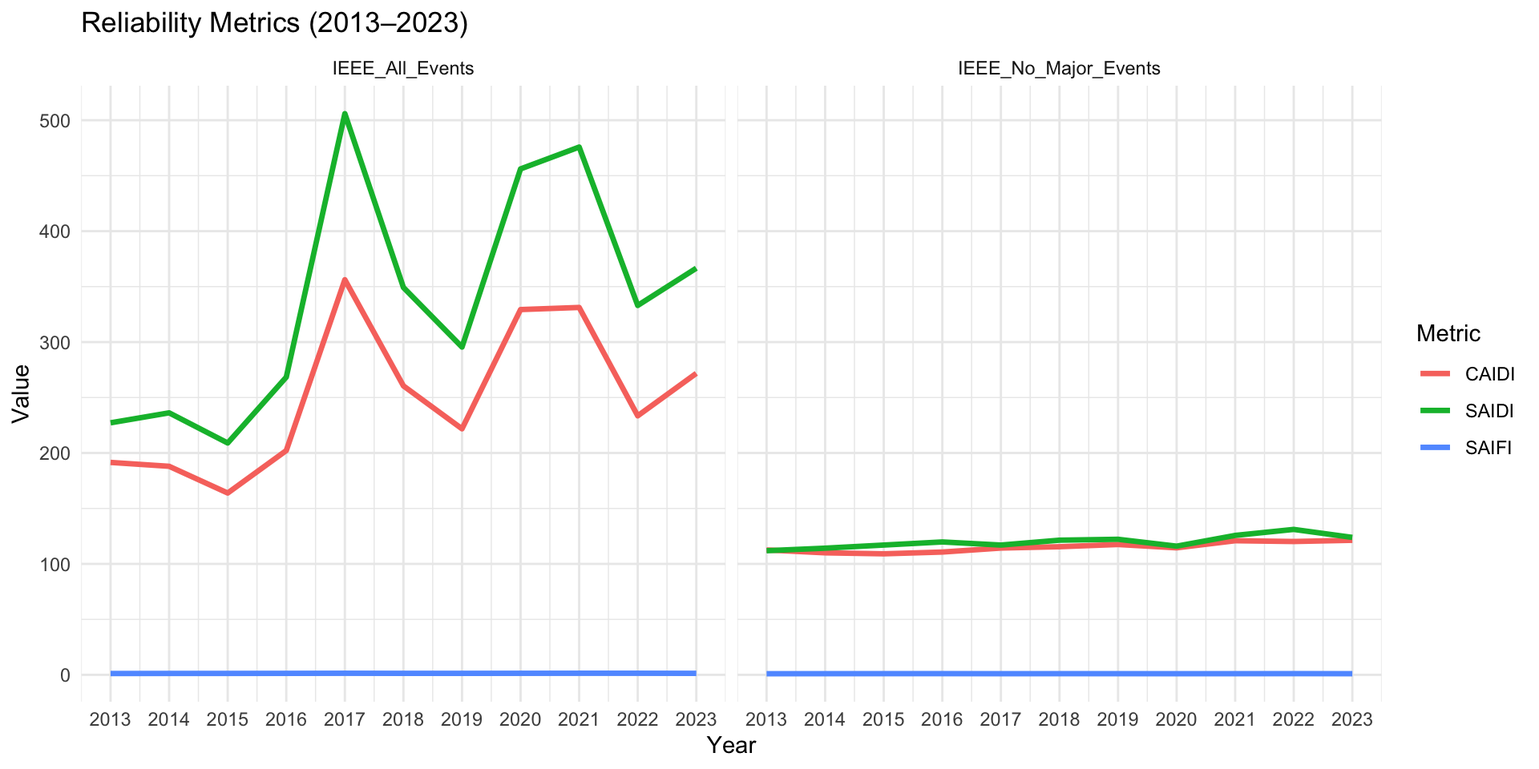
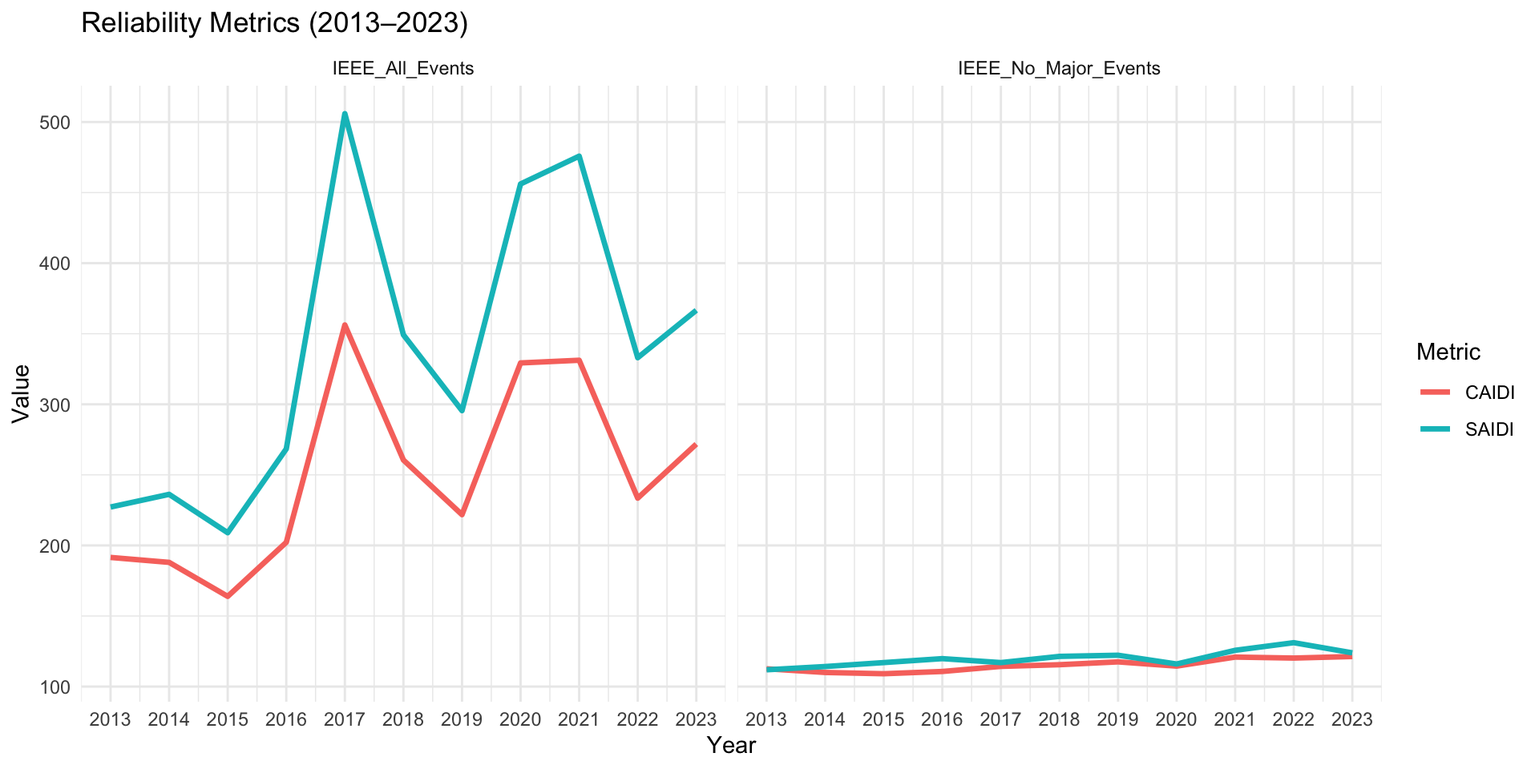
Edits to first 3 plots

diff --git a/docs/results.html b/docs/results.html
@@ -7,7 +7,7 @@
 <meta name="viewport" content="width=device-width, initial-scale=1.0, user-scalable=yes">
 
 
-<title>3&nbsp; Results – ENERGY!!!</title>
+<title>3&nbsp; Results – Renewable Energy and Grid Reliability</title>
 <style>
 code{white-space: pre-wrap;}
 span.smallcaps{font-variant: small-caps;}
@@ -19,6 +19,40 @@ ul.task-list li input[type="checkbox"] {
   width: 0.8em;
   margin: 0 0.8em 0.2em -1em; /* quarto-specific, see https://github.com/quarto-dev/quarto-cli/issues/4556 */ 
   vertical-align: middle;
+}
+/* CSS for syntax highlighting */
+pre > code.sourceCode { white-space: pre; position: relative; }
+pre > code.sourceCode > span { line-height: 1.25; }
+pre > code.sourceCode > span:empty { height: 1.2em; }
+.sourceCode { overflow: visible; }
+code.sourceCode > span { color: inherit; text-decoration: inherit; }
+div.sourceCode { margin: 1em 0; }
+pre.sourceCode { margin: 0; }
+@media screen {
+div.sourceCode { overflow: auto; }
+}
+@media print {
+pre > code.sourceCode { white-space: pre-wrap; }
+pre > code.sourceCode > span { display: inline-block; text-indent: -5em; padding-left: 5em; }
+}
+pre.numberSource code
+  { counter-reset: source-line 0; }
+pre.numberSource code > span
+  { position: relative; left: -4em; counter-increment: source-line; }
+pre.numberSource code > span > a:first-child::before
+  { content: counter(source-line);
+    position: relative; left: -1em; text-align: right; vertical-align: baseline;
+    border: none; display: inline-block;
+    -webkit-touch-callout: none; -webkit-user-select: none;
+    -khtml-user-select: none; -moz-user-select: none;
+    -ms-user-select: none; user-select: none;
+    padding: 0 4px; width: 4em;
+  }
+pre.numberSource { margin-left: 3em;  padding-left: 4px; }
+div.sourceCode
+  {   }
+@media screen {
+pre > code.sourceCode > span > a:first-child::before { text-decoration: underline; }
 }
 </style>
 
@@ -96,7 +130,7 @@ ul.task-list li input[type="checkbox"] {
   <nav id="quarto-sidebar" class="sidebar collapse collapse-horizontal quarto-sidebar-collapse-item sidebar-navigation floating overflow-auto">
     <div class="pt-lg-2 mt-2 text-left sidebar-header">
     <div class="sidebar-title mb-0 py-0">
-      <a href="./">ENERGY!!!</a> 
+      <a href="./">Renewable Energy and Grid Reliability</a> 
         <div class="sidebar-tools-main">
     <a href="https://github.com/mollyverhaaren/energy.git" title="Source Code" class="quarto-navigation-tool px-1" aria-label="Source Code"><i class="bi bi-github"></i></a>
 </div>
@@ -144,8 +178,15 @@ ul.task-list li input[type="checkbox"] {
 </nav>
 <div id="quarto-sidebar-glass" class="quarto-sidebar-collapse-item" data-bs-toggle="collapse" data-bs-target=".quarto-sidebar-collapse-item"></div>
 <!-- margin-sidebar -->
-    <div id="quarto-margin-sidebar" class="sidebar margin-sidebar zindex-bottom">
-        
+    <div id="quarto-margin-sidebar" class="sidebar margin-sidebar">
+        <nav id="TOC" role="doc-toc" class="toc-active">
+    <h2 id="toc-title">Table of contents</h2>
+   
+  <ul>
+  <li><a href="#setting-the-scene-renewable-integration-in-the-u.s.-over-time" id="toc-setting-the-scene-renewable-integration-in-the-u.s.-over-time" class="nav-link active" data-scroll-target="#setting-the-scene-renewable-integration-in-the-u.s.-over-time"><span class="header-section-number">3.1</span> Setting the Scene: Renewable Integration in the U.S. Over Time:</a></li>
+  <li><a href="#grid-reliability" id="toc-grid-reliability" class="nav-link" data-scroll-target="#grid-reliability"><span class="header-section-number">3.2</span> Grid Reliability:</a></li>
+  </ul>
+<div class="toc-actions"><ul><li><a href="https://github.com/mollyverhaaren/energy.git/edit/main/results.qmd" class="toc-action"><i class="bi bi-github"></i>Edit this page</a></li><li><a href="https://github.com/mollyverhaaren/energy.git/issues/new" class="toc-action"><i class="bi empty"></i>Report an issue</a></li></ul></div></nav>
     </div>
 <!-- main -->
 <main class="content" id="quarto-document-content">
@@ -169,8 +210,178 @@ ul.task-list li input[type="checkbox"] {
 </header>
 
 
+<div class="cell">
+<details class="code-fold">
+<summary>Code</summary>
+<div class="sourceCode cell-code" id="cb1"><pre class="sourceCode r code-with-copy"><code class="sourceCode r"><span id="cb1-1"><a href="#cb1-1" aria-hidden="true" tabindex="-1"></a><span class="fu">suppressPackageStartupMessages</span>(<span class="fu">library</span>(ggplot2))</span>
+<span id="cb1-2"><a href="#cb1-2" aria-hidden="true" tabindex="-1"></a><span class="fu">suppressPackageStartupMessages</span>(<span class="fu">library</span>(dplyr))</span>
+<span id="cb1-3"><a href="#cb1-3" aria-hidden="true" tabindex="-1"></a><span class="fu">suppressPackageStartupMessages</span>(<span class="fu">library</span>(tidyr))</span>
+<span id="cb1-4"><a href="#cb1-4" aria-hidden="true" tabindex="-1"></a><span class="fu">suppressPackageStartupMessages</span>(<span class="fu">library</span>(scales))</span></code><button title="Copy to Clipboard" class="code-copy-button"><i class="bi"></i></button></pre></div>
+</details>
+</div>
+<section id="setting-the-scene-renewable-integration-in-the-u.s.-over-time" class="level2" data-number="3.1">
+<h2 data-number="3.1" class="anchored" data-anchor-id="setting-the-scene-renewable-integration-in-the-u.s.-over-time"><span class="header-section-number">3.1</span> Setting the Scene: Renewable Integration in the U.S. Over Time:</h2>
+<p>Understanding the trajectory of U.S. electricity generation over the past three decades provides context for the challenges and opportunities presented by renewable energy integration. The plot below serves as the foundation of our analysis, showing the shift in energy sources from 1990 to 2023. It highlights:</p>
+<ul>
+<li>The decline of coal and petroleum-based generation</li>
+<li>The rise of natural gas</li>
+<li>The rapid growth of intermittent renewables (wind and solar), especially in the past decade</li>
+<li>The consistency of other renewables, which include hydroelectric, geothermal, and biomass</li>
+</ul>
+<p>We focus this analysis on wind and solar electricity generation because they provide clean but intermittent energy (after all, we can’t control when the wind is blowing and the sun is shining!). As the U.S. works to reduce carbon emissions and combat climate change, the grid will be more reliant on these intermittent energy sources, so understanding their impact on grid reliability is crucial.</p>
+<p>Total area adds up to total gen in any given yesr…. capacity vs gen</p>
+<div class="cell">
+<details class="code-fold">
+<summary>Code</summary>
+<div class="sourceCode cell-code" id="cb2"><pre class="sourceCode r code-with-copy"><code class="sourceCode r"><span id="cb2-1"><a href="#cb2-1" aria-hidden="true" tabindex="-1"></a>us_gen_data <span class="ot">&lt;-</span> <span class="fu">read.csv</span>(<span class="st">"US_generation.csv"</span>)</span>
+<span id="cb2-2"><a href="#cb2-2" aria-hidden="true" tabindex="-1"></a></span>
+<span id="cb2-3"><a href="#cb2-3" aria-hidden="true" tabindex="-1"></a><span class="fu">colnames</span>(us_gen_data)[<span class="dv">1</span>] <span class="ot">&lt;-</span> <span class="st">"Year"</span></span>
+<span id="cb2-4"><a href="#cb2-4" aria-hidden="true" tabindex="-1"></a></span>
+<span id="cb2-5"><a href="#cb2-5" aria-hidden="true" tabindex="-1"></a>us_gen_data <span class="ot">&lt;-</span> us_gen_data <span class="sc">|&gt;</span></span>
+<span id="cb2-6"><a href="#cb2-6" aria-hidden="true" tabindex="-1"></a>  <span class="fu">filter</span>(Year <span class="sc">&gt;=</span> <span class="dv">1990</span>)</span>
+<span id="cb2-7"><a href="#cb2-7" aria-hidden="true" tabindex="-1"></a></span>
+<span id="cb2-8"><a href="#cb2-8" aria-hidden="true" tabindex="-1"></a>data1_long <span class="ot">&lt;-</span> us_gen_data <span class="sc">|&gt;</span></span>
+<span id="cb2-9"><a href="#cb2-9" aria-hidden="true" tabindex="-1"></a>  <span class="fu">select</span>(Year, wind, solar, <span class="st">`</span><span class="at">coal</span><span class="st">`</span>, <span class="st">`</span><span class="at">natural.gas</span><span class="st">`</span>, <span class="st">`</span><span class="at">nuclear</span><span class="st">`</span>, <span class="st">`</span><span class="at">other.renewables</span><span class="st">`</span>, <span class="st">`</span><span class="at">petroleum.and.other</span><span class="st">`</span>) <span class="sc">|&gt;</span></span>
+<span id="cb2-10"><a href="#cb2-10" aria-hidden="true" tabindex="-1"></a>  <span class="fu">pivot_longer</span>(<span class="at">cols =</span> <span class="sc">-</span>Year, <span class="at">names_to =</span> <span class="st">"Energy_Source"</span>, <span class="at">values_to =</span> <span class="st">"Generation"</span>)</span>
+<span id="cb2-11"><a href="#cb2-11" aria-hidden="true" tabindex="-1"></a></span>
+<span id="cb2-12"><a href="#cb2-12" aria-hidden="true" tabindex="-1"></a><span class="co"># Set factor levels (wind and solar at the top)</span></span>
+<span id="cb2-13"><a href="#cb2-13" aria-hidden="true" tabindex="-1"></a>data1_long<span class="sc">$</span>Energy_Source <span class="ot">&lt;-</span> <span class="fu">factor</span>(data1_long<span class="sc">$</span>Energy_Source, </span>
+<span id="cb2-14"><a href="#cb2-14" aria-hidden="true" tabindex="-1"></a>                                  <span class="at">levels =</span> <span class="fu">c</span>(<span class="st">"solar"</span>,<span class="st">"wind"</span>,<span class="st">"other.renewables"</span>, <span class="st">"nuclear"</span>, <span class="st">"natural.gas"</span>,</span>
+<span id="cb2-15"><a href="#cb2-15" aria-hidden="true" tabindex="-1"></a>                                             <span class="st">"petroleum.and.other"</span>, <span class="st">"coal"</span>))</span>
+<span id="cb2-16"><a href="#cb2-16" aria-hidden="true" tabindex="-1"></a><span class="co"># Area Chart</span></span>
+<span id="cb2-17"><a href="#cb2-17" aria-hidden="true" tabindex="-1"></a><span class="fu">ggplot</span>(data1_long, <span class="fu">aes</span>(<span class="at">x =</span> Year, <span class="at">y =</span> Generation, <span class="at">fill =</span> Energy_Source)) <span class="sc">+</span></span>
+<span id="cb2-18"><a href="#cb2-18" aria-hidden="true" tabindex="-1"></a>  <span class="fu">geom_area</span>(<span class="at">alpha =</span> <span class="fl">0.8</span>, <span class="at">position =</span> <span class="st">"stack"</span>) <span class="sc">+</span></span>
+<span id="cb2-19"><a href="#cb2-19" aria-hidden="true" tabindex="-1"></a>  <span class="fu">scale_fill_manual</span>(<span class="at">values =</span> <span class="fu">c</span>(<span class="st">"coal"</span> <span class="ot">=</span> <span class="st">"gray10"</span>, </span>
+<span id="cb2-20"><a href="#cb2-20" aria-hidden="true" tabindex="-1"></a>                               <span class="st">"natural.gas"</span> <span class="ot">=</span> <span class="st">"gray50"</span>, </span>
+<span id="cb2-21"><a href="#cb2-21" aria-hidden="true" tabindex="-1"></a>                               <span class="st">"nuclear"</span> <span class="ot">=</span> <span class="st">"gray80"</span>, </span>
+<span id="cb2-22"><a href="#cb2-22" aria-hidden="true" tabindex="-1"></a>                               <span class="st">"other.renewables"</span> <span class="ot">=</span> <span class="st">"cornflowerblue"</span>, </span>
+<span id="cb2-23"><a href="#cb2-23" aria-hidden="true" tabindex="-1"></a>                               <span class="st">"petroleum.and.other"</span> <span class="ot">=</span> <span class="st">"gray30"</span>,</span>
+<span id="cb2-24"><a href="#cb2-24" aria-hidden="true" tabindex="-1"></a>                               <span class="st">"wind"</span> <span class="ot">=</span> <span class="st">"green4"</span>,</span>
+<span id="cb2-25"><a href="#cb2-25" aria-hidden="true" tabindex="-1"></a>                               <span class="st">"solar"</span> <span class="ot">=</span> <span class="st">"yellow"</span>)) <span class="sc">+</span></span>
+<span id="cb2-26"><a href="#cb2-26" aria-hidden="true" tabindex="-1"></a>  <span class="fu">labs</span>(<span class="at">title =</span> <span class="st">"US Electricity Generation (MW) by Source 1990-2023"</span>,</span>
+<span id="cb2-27"><a href="#cb2-27" aria-hidden="true" tabindex="-1"></a>       <span class="at">x =</span> <span class="st">"Year"</span>,</span>
+<span id="cb2-28"><a href="#cb2-28" aria-hidden="true" tabindex="-1"></a>       <span class="at">y =</span> <span class="st">"Electricity Generation (MW)"</span>,</span>
+<span id="cb2-29"><a href="#cb2-29" aria-hidden="true" tabindex="-1"></a>       <span class="at">fill =</span> <span class="st">"Energy Source"</span>) <span class="sc">+</span></span>
+<span id="cb2-30"><a href="#cb2-30" aria-hidden="true" tabindex="-1"></a>  <span class="fu">theme_minimal</span>()</span></code><button title="Copy to Clipboard" class="code-copy-button"><i class="bi"></i></button></pre></div>
+</details>
+<div class="cell-output-display">
+<div>
+<figure class="figure">
+<p><img src="results_files/figure-html/unnamed-chunk-2-1.png" class="img-fluid figure-img" width="960"></p>
+</figure>
+</div>
+</div>
+</div>
+<p>The plot above may make it seem like wind and solar are not responsible for a large portion of the energy generation in the U.S., but if we plot their share of the country’s total generation mix from 1990 to 2023, we see the<br>
+Further, the EIA forecasts this share to keep growing at a very rapid pace through the mid-2030s, and reaching nearly half of the country’s electricity generation by 2050.</p>
+<div class="cell">
+<details class="code-fold">
+<summary>Code</summary>
+<div class="sourceCode cell-code" id="cb3"><pre class="sourceCode r code-with-copy"><code class="sourceCode r"><span id="cb3-1"><a href="#cb3-1" aria-hidden="true" tabindex="-1"></a><span class="co"># Add a new column to calculate the fraction of wind + solar generation</span></span>
+<span id="cb3-2"><a href="#cb3-2" aria-hidden="true" tabindex="-1"></a>data2 <span class="ot">&lt;-</span> us_gen_data <span class="sc">|&gt;</span></span>
+<span id="cb3-3"><a href="#cb3-3" aria-hidden="true" tabindex="-1"></a>  <span class="fu">mutate</span>(</span>
+<span id="cb3-4"><a href="#cb3-4" aria-hidden="true" tabindex="-1"></a>    <span class="at">Total_Generation =</span> wind <span class="sc">+</span> solar <span class="sc">+</span> coal <span class="sc">+</span> natural.gas <span class="sc">+</span> nuclear <span class="sc">+</span> other.renewables <span class="sc">+</span> petroleum.and.other,</span>
+<span id="cb3-5"><a href="#cb3-5" aria-hidden="true" tabindex="-1"></a>    <span class="at">Wind_Solar_Fraction =</span> (wind <span class="sc">+</span> solar) <span class="sc">/</span> Total_Generation</span>
+<span id="cb3-6"><a href="#cb3-6" aria-hidden="true" tabindex="-1"></a>  )</span>
+<span id="cb3-7"><a href="#cb3-7" aria-hidden="true" tabindex="-1"></a></span>
+<span id="cb3-8"><a href="#cb3-8" aria-hidden="true" tabindex="-1"></a><span class="co"># Find the last data point</span></span>
+<span id="cb3-9"><a href="#cb3-9" aria-hidden="true" tabindex="-1"></a>last_point <span class="ot">&lt;-</span> data2 <span class="sc">|&gt;</span> <span class="fu">filter</span>(Year <span class="sc">==</span> <span class="fu">max</span>(Year))</span>
+<span id="cb3-10"><a href="#cb3-10" aria-hidden="true" tabindex="-1"></a></span>
+<span id="cb3-11"><a href="#cb3-11" aria-hidden="true" tabindex="-1"></a><span class="co"># Load and prepare the forecast data in R</span></span>
+<span id="cb3-12"><a href="#cb3-12" aria-hidden="true" tabindex="-1"></a>forecast <span class="ot">&lt;-</span> <span class="fu">read.csv</span>(<span class="st">"Renewable_Energy_Forecast.csv"</span>) <span class="sc">|&gt;</span></span>
+<span id="cb3-13"><a href="#cb3-13" aria-hidden="true" tabindex="-1"></a>  <span class="fu">select</span>(Year, Solar_Wind_Fraction) <span class="sc">|&gt;</span></span>
+<span id="cb3-14"><a href="#cb3-14" aria-hidden="true" tabindex="-1"></a>  <span class="fu">rename</span>(<span class="at">Solar_Wind_Fraction =</span> Solar_Wind_Fraction)</span>
+<span id="cb3-15"><a href="#cb3-15" aria-hidden="true" tabindex="-1"></a></span>
+<span id="cb3-16"><a href="#cb3-16" aria-hidden="true" tabindex="-1"></a><span class="co"># Combine the historical and forecast data for plotting</span></span>
+<span id="cb3-17"><a href="#cb3-17" aria-hidden="true" tabindex="-1"></a>combined_data <span class="ot">&lt;-</span> <span class="fu">bind_rows</span>(</span>
+<span id="cb3-18"><a href="#cb3-18" aria-hidden="true" tabindex="-1"></a>  data2 <span class="sc">|&gt;</span> <span class="fu">select</span>(Year, Wind_Solar_Fraction) <span class="sc">|&gt;</span> <span class="fu">rename</span>(<span class="at">Fraction =</span> Wind_Solar_Fraction),</span>
+<span id="cb3-19"><a href="#cb3-19" aria-hidden="true" tabindex="-1"></a>  forecast <span class="sc">|&gt;</span> <span class="fu">rename</span>(<span class="at">Fraction =</span> Solar_Wind_Fraction)</span>
+<span id="cb3-20"><a href="#cb3-20" aria-hidden="true" tabindex="-1"></a>)</span>
+<span id="cb3-21"><a href="#cb3-21" aria-hidden="true" tabindex="-1"></a></span>
+<span id="cb3-22"><a href="#cb3-22" aria-hidden="true" tabindex="-1"></a><span class="co"># Find the last data point</span></span>
+<span id="cb3-23"><a href="#cb3-23" aria-hidden="true" tabindex="-1"></a>last_point2 <span class="ot">&lt;-</span> forecast <span class="sc">|&gt;</span> <span class="fu">filter</span>(Year <span class="sc">==</span> <span class="fu">max</span>(Year))</span>
+<span id="cb3-24"><a href="#cb3-24" aria-hidden="true" tabindex="-1"></a></span>
+<span id="cb3-25"><a href="#cb3-25" aria-hidden="true" tabindex="-1"></a><span class="co"># Plot with the forecast</span></span>
+<span id="cb3-26"><a href="#cb3-26" aria-hidden="true" tabindex="-1"></a><span class="fu">ggplot</span>(data2, <span class="fu">aes</span>(<span class="at">x =</span> Year, <span class="at">y =</span> Wind_Solar_Fraction)) <span class="sc">+</span></span>
+<span id="cb3-27"><a href="#cb3-27" aria-hidden="true" tabindex="-1"></a>  <span class="fu">geom_line</span>(<span class="at">color =</span> <span class="st">"darkolivegreen4"</span>, <span class="at">linewidth =</span> <span class="fl">1.2</span>) <span class="sc">+</span></span>
+<span id="cb3-28"><a href="#cb3-28" aria-hidden="true" tabindex="-1"></a>  <span class="fu">geom_line</span>(<span class="at">data =</span> forecast, <span class="fu">aes</span>(<span class="at">x =</span> Year, <span class="at">y =</span> Solar_Wind_Fraction),</span>
+<span id="cb3-29"><a href="#cb3-29" aria-hidden="true" tabindex="-1"></a>            <span class="at">color =</span> <span class="st">"darkolivegreen4"</span>, <span class="at">linetype =</span> <span class="st">"dashed"</span>, <span class="at">linewidth =</span> <span class="fl">1.2</span>) <span class="sc">+</span></span>
+<span id="cb3-30"><a href="#cb3-30" aria-hidden="true" tabindex="-1"></a>  <span class="fu">geom_point</span>(<span class="at">data =</span> last_point, <span class="fu">aes</span>(<span class="at">x =</span> Year, <span class="at">y =</span> Wind_Solar_Fraction), </span>
+<span id="cb3-31"><a href="#cb3-31" aria-hidden="true" tabindex="-1"></a>             <span class="at">size =</span> <span class="fl">2.5</span>, <span class="at">color =</span> <span class="st">"darkolivegreen4"</span>) <span class="sc">+</span></span>
+<span id="cb3-32"><a href="#cb3-32" aria-hidden="true" tabindex="-1"></a>  <span class="fu">geom_text</span>(<span class="at">data =</span> last_point, <span class="fu">aes</span>(<span class="at">label =</span> scales<span class="sc">::</span><span class="fu">percent</span>(Wind_Solar_Fraction, <span class="at">accuracy =</span> <span class="fl">0.1</span>)),</span>
+<span id="cb3-33"><a href="#cb3-33" aria-hidden="true" tabindex="-1"></a>            <span class="at">vjust =</span> <span class="sc">-</span><span class="fl">0.5</span>, <span class="at">hjust =</span> <span class="dv">1</span>, <span class="at">color =</span> <span class="st">"darkolivegreen4"</span>) <span class="sc">+</span></span>
+<span id="cb3-34"><a href="#cb3-34" aria-hidden="true" tabindex="-1"></a>  <span class="fu">geom_text</span>(<span class="at">data =</span> forecast <span class="sc">|&gt;</span> <span class="fu">filter</span>(Year <span class="sc">==</span> <span class="dv">2050</span>),</span>
+<span id="cb3-35"><a href="#cb3-35" aria-hidden="true" tabindex="-1"></a>            <span class="fu">aes</span>(<span class="at">x =</span> Year, <span class="at">y =</span> Solar_Wind_Fraction,</span>
+<span id="cb3-36"><a href="#cb3-36" aria-hidden="true" tabindex="-1"></a>                <span class="at">label =</span> scales<span class="sc">::</span><span class="fu">percent</span>(Solar_Wind_Fraction, <span class="at">accuracy =</span> <span class="fl">0.1</span>)),</span>
+<span id="cb3-37"><a href="#cb3-37" aria-hidden="true" tabindex="-1"></a>            <span class="at">vjust =</span> <span class="sc">-</span><span class="fl">0.5</span>, <span class="at">hjust =</span> <span class="sc">-</span><span class="fl">0.1</span>, <span class="at">color =</span> <span class="st">"darkolivegreen4"</span>) <span class="sc">+</span> </span>
+<span id="cb3-38"><a href="#cb3-38" aria-hidden="true" tabindex="-1"></a> <span class="fu">geom_point</span>(<span class="at">data =</span> last_point2, <span class="fu">aes</span>(<span class="at">x =</span> Year, <span class="at">y =</span> Solar_Wind_Fraction), </span>
+<span id="cb3-39"><a href="#cb3-39" aria-hidden="true" tabindex="-1"></a>             <span class="at">size =</span> <span class="fl">2.5</span>, <span class="at">color =</span> <span class="st">"darkolivegreen4"</span>) <span class="sc">+</span></span>
+<span id="cb3-40"><a href="#cb3-40" aria-hidden="true" tabindex="-1"></a>  <span class="fu">labs</span>(<span class="at">title =</span> <span class="st">"Wind &amp; Solar as a Fraction of Total Electricity Generation (Historical 1990 - 2023 and Forecast 2024-2050)"</span>,</span>
+<span id="cb3-41"><a href="#cb3-41" aria-hidden="true" tabindex="-1"></a>       <span class="at">x =</span> <span class="st">"Year"</span>,</span>
+<span id="cb3-42"><a href="#cb3-42" aria-hidden="true" tabindex="-1"></a>       <span class="at">y =</span> <span class="st">"Fraction of Total Generation"</span>) <span class="sc">+</span></span>
+<span id="cb3-43"><a href="#cb3-43" aria-hidden="true" tabindex="-1"></a>  <span class="fu">theme_minimal</span>() <span class="sc">+</span></span>
+<span id="cb3-44"><a href="#cb3-44" aria-hidden="true" tabindex="-1"></a>  <span class="fu">scale_y_continuous</span>(<span class="at">labels =</span> scales<span class="sc">::</span><span class="fu">percent_format</span>())<span class="sc">+</span></span>
+<span id="cb3-45"><a href="#cb3-45" aria-hidden="true" tabindex="-1"></a>  <span class="fu">scale_x_continuous</span>(<span class="at">breaks =</span> <span class="fu">seq</span>(<span class="dv">1990</span>, <span class="dv">2050</span>, <span class="at">by =</span> <span class="dv">5</span>)) </span></code><button title="Copy to Clipboard" class="code-copy-button"><i class="bi"></i></button></pre></div>
+</details>
+<div class="cell-output-display">
+<div>
+<figure class="figure">
+<p><img src="results_files/figure-html/unnamed-chunk-3-1.png" class="img-fluid figure-img" width="960"></p>
+</figure>
+</div>
+</div>
+</div>
+</section>
+<section id="grid-reliability" class="level2" data-number="3.2">
+<h2 data-number="3.2" class="anchored" data-anchor-id="grid-reliability"><span class="header-section-number">3.2</span> Grid Reliability:</h2>
+<p>Talk about why grid reliability is important, explain reliability metrics</p>
+<ul>
+<li>CAIDI:(is actually just saidi * saifi) Customer Average Interruption Duration Index. It is average number of minutes it takes to restore non-momentary electric interruptions.</li>
+<li>SAIDI:System Average Interruption Duration Index. It is the minutes of non-momentary electric interruptions, per year, the average customer experienced.</li>
+<li>SAIFI:System Average Interruption Frequency Index. It is the number of non-momentary electric interruptions, per year, the average customer experienced.</li>
+</ul>
+<p>Conclusion from this is that reliability is probs much more related to lack of extreme weather events than renewable penetration… could be interesting to track down states with major weather events vs those without and see if there is correlation in what we’re seeing here (good conclusion for the entire project: extreme weather event contributes to lack of reliability much more than renewable integration, makes an even stronger case for the energy transition which can hopefully mitigate or slow down climate change that brings extreme weather) (Can look at winter storm Uri in texas Feb 2021?, California 2022 heatwaves?)</p>
+<p>Probably should get rid of saifi? or include as bar on secondary axis but we;ve been told no secondary axes</p>
+<div class="cell">
+<details class="code-fold">
+<summary>Code</summary>
+<div class="sourceCode cell-code" id="cb4"><pre class="sourceCode r code-with-copy"><code class="sourceCode r"><span id="cb4-1"><a href="#cb4-1" aria-hidden="true" tabindex="-1"></a>t1_reliability <span class="ot">&lt;-</span> <span class="fu">read.csv</span>(<span class="st">"T1_Reliability.csv"</span>)</span>
+<span id="cb4-2"><a href="#cb4-2" aria-hidden="true" tabindex="-1"></a></span>
+<span id="cb4-3"><a href="#cb4-3" aria-hidden="true" tabindex="-1"></a>t1_reliability <span class="ot">&lt;-</span> t1_reliability <span class="sc">|&gt;</span></span>
+<span id="cb4-4"><a href="#cb4-4" aria-hidden="true" tabindex="-1"></a>   <span class="fu">filter</span>(<span class="st">`</span><span class="at">Event_Category</span><span class="st">`</span> <span class="sc">%in%</span> <span class="fu">c</span>(<span class="st">"IEEE_All_Events"</span>, <span class="st">"IEEE_No_Major_Events"</span>))</span>
+<span id="cb4-5"><a href="#cb4-5" aria-hidden="true" tabindex="-1"></a></span>
+<span id="cb4-6"><a href="#cb4-6" aria-hidden="true" tabindex="-1"></a>t1_reliability<span class="sc">$</span>Year <span class="ot">&lt;-</span> <span class="fu">as.integer</span>(t1_reliability<span class="sc">$</span>Year)</span>
+<span id="cb4-7"><a href="#cb4-7" aria-hidden="true" tabindex="-1"></a></span>
+<span id="cb4-8"><a href="#cb4-8" aria-hidden="true" tabindex="-1"></a><span class="co"># Reshape the data to a long format for plotting</span></span>
+<span id="cb4-9"><a href="#cb4-9" aria-hidden="true" tabindex="-1"></a><span class="co">#data3_long &lt;- t1_reliability  |&gt;</span></span>
+<span id="cb4-10"><a href="#cb4-10" aria-hidden="true" tabindex="-1"></a><span class="co">#  pivot_longer(cols = c(SAIDI, SAIFI, CAIDI), names_to = "Metric", values_to = "Value")</span></span>
+<span id="cb4-11"><a href="#cb4-11" aria-hidden="true" tabindex="-1"></a></span>
+<span id="cb4-12"><a href="#cb4-12" aria-hidden="true" tabindex="-1"></a>data3_long <span class="ot">&lt;-</span> t1_reliability  <span class="sc">|&gt;</span></span>
+<span id="cb4-13"><a href="#cb4-13" aria-hidden="true" tabindex="-1"></a>  <span class="fu">pivot_longer</span>(<span class="at">cols =</span> <span class="fu">c</span>(SAIDI, CAIDI), <span class="at">names_to =</span> <span class="st">"Metric"</span>, <span class="at">values_to =</span> <span class="st">"Value"</span>)</span>
+<span id="cb4-14"><a href="#cb4-14" aria-hidden="true" tabindex="-1"></a></span>
+<span id="cb4-15"><a href="#cb4-15" aria-hidden="true" tabindex="-1"></a><span class="co"># Plot the line graph faceted by Event Category</span></span>
+<span id="cb4-16"><a href="#cb4-16" aria-hidden="true" tabindex="-1"></a><span class="fu">ggplot</span>(data3_long, <span class="fu">aes</span>(<span class="at">x =</span> Year, <span class="at">y =</span> Value, <span class="at">color =</span> Metric)) <span class="sc">+</span></span>
+<span id="cb4-17"><a href="#cb4-17" aria-hidden="true" tabindex="-1"></a>  <span class="fu">geom_line</span>(<span class="at">linewidth =</span> <span class="fl">1.2</span>) <span class="sc">+</span></span>
+<span id="cb4-18"><a href="#cb4-18" aria-hidden="true" tabindex="-1"></a>  <span class="fu">scale_x_continuous</span>(<span class="at">breaks =</span> <span class="fu">seq</span>(<span class="dv">2013</span>, <span class="dv">2023</span>, <span class="dv">1</span>)) <span class="sc">+</span></span>
+<span id="cb4-19"><a href="#cb4-19" aria-hidden="true" tabindex="-1"></a>  <span class="co">#scale_y_continuous(expand = c(0, 0)) +</span></span>
+<span id="cb4-20"><a href="#cb4-20" aria-hidden="true" tabindex="-1"></a>  <span class="fu">labs</span>(<span class="at">title =</span> <span class="st">"Reliability Metrics (2013–2023)"</span>,</span>
+<span id="cb4-21"><a href="#cb4-21" aria-hidden="true" tabindex="-1"></a>       <span class="at">x =</span> <span class="st">"Year"</span>,</span>
+<span id="cb4-22"><a href="#cb4-22" aria-hidden="true" tabindex="-1"></a>       <span class="at">y =</span> <span class="st">"Value"</span>,</span>
+<span id="cb4-23"><a href="#cb4-23" aria-hidden="true" tabindex="-1"></a>       <span class="at">color =</span> <span class="st">"Metric"</span>) <span class="sc">+</span></span>
+<span id="cb4-24"><a href="#cb4-24" aria-hidden="true" tabindex="-1"></a>  <span class="fu">facet_wrap</span>(<span class="sc">~</span> <span class="st">`</span><span class="at">Event_Category</span><span class="st">`</span>) <span class="sc">+</span></span>
+<span id="cb4-25"><a href="#cb4-25" aria-hidden="true" tabindex="-1"></a>  <span class="fu">theme_minimal</span>()</span></code><button title="Copy to Clipboard" class="code-copy-button"><i class="bi"></i></button></pre></div>
+</details>
+<div class="cell-output-display">
+<div>
+<figure class="figure">
+<p><img src="results_files/figure-html/unnamed-chunk-4-1.png" class="img-fluid figure-img" width="960"></p>
+</figure>
+</div>
+</div>
+</div>
 
 
+</section>
 
 </main> <!-- /main -->
 <script id="quarto-html-after-body" type="application/javascript">
@@ -613,7 +824,7 @@ window.document.addEventListener("DOMContentLoaded", function (event) {
     </div>   
     <div class="nav-footer-center">
       &nbsp;
-    <div class="toc-actions"><ul><li><a href="https://github.com/mollyverhaaren/energy.git/edit/main/results.qmd" class="toc-action"><i class="bi bi-github"></i>Edit this page</a></li><li><a href="https://github.com/mollyverhaaren/energy.git/issues/new" class="toc-action"><i class="bi empty"></i>Report an issue</a></li></ul></div></div>
+    <div class="toc-actions d-sm-block d-md-none"><ul><li><a href="https://github.com/mollyverhaaren/energy.git/edit/main/results.qmd" class="toc-action"><i class="bi bi-github"></i>Edit this page</a></li><li><a href="https://github.com/mollyverhaaren/energy.git/issues/new" class="toc-action"><i class="bi empty"></i>Report an issue</a></li></ul></div></div>
     <div class="nav-footer-right">
 <p>This book was built with <a href="https://quarto.org/">Quarto</a>.</p>
 </div>

diff --git a/docs/index.html b/docs/index.html
@@ -8,9 +8,9 @@
 
 <meta name="author" content="Margot Genereux (mg4778)">
 <meta name="author" content="Molly Verhaaren (mcv2150)">
-<meta name="dcterms.date" content="2024-11-20">
+<meta name="dcterms.date" content="2024-12-08">
 
-<title>ENERGY!!!</title>
+<title>Renewable Energy and Grid Reliability</title>
 <style>
 code{white-space: pre-wrap;}
 span.smallcaps{font-variant: small-caps;}
@@ -98,7 +98,7 @@ ul.task-list li input[type="checkbox"] {
   <nav id="quarto-sidebar" class="sidebar collapse collapse-horizontal quarto-sidebar-collapse-item sidebar-navigation floating overflow-auto">
     <div class="pt-lg-2 mt-2 text-left sidebar-header">
     <div class="sidebar-title mb-0 py-0">
-      <a href="./">ENERGY!!!</a> 
+      <a href="./">Renewable Energy and Grid Reliability</a> 
         <div class="sidebar-tools-main">
     <a href="https://github.com/mollyverhaaren/energy.git" title="Source Code" class="quarto-navigation-tool px-1" aria-label="Source Code"><i class="bi bi-github"></i></a>
 </div>
@@ -160,7 +160,7 @@ ul.task-list li input[type="checkbox"] {
 
 <header id="title-block-header" class="quarto-title-block default">
 <div class="quarto-title">
-<h1 class="title">ENERGY!!!</h1>
+<h1 class="title">Renewable Energy and Grid Reliability</h1>
 </div>
 
 
@@ -178,7 +178,7 @@ ul.task-list li input[type="checkbox"] {
     <div>
     <div class="quarto-title-meta-heading">Published</div>
     <div class="quarto-title-meta-contents">
-      <p class="date">November 20, 2024</p>
+      <p class="date">December 8, 2024</p>
     </div>
   </div>
   

diff --git a/docs/data.html b/docs/data.html
@@ -7,7 +7,7 @@
 <meta name="viewport" content="width=device-width, initial-scale=1.0, user-scalable=yes">
 
 
-<title>2&nbsp; Data – ENERGY!!!</title>
+<title>2&nbsp; Data – Renewable Energy and Grid Reliability</title>
 <style>
 code{white-space: pre-wrap;}
 span.smallcaps{font-variant: small-caps;}
@@ -130,7 +130,7 @@ pre > code.sourceCode > span > a:first-child::before { text-decoration: underlin
   <nav id="quarto-sidebar" class="sidebar collapse collapse-horizontal quarto-sidebar-collapse-item sidebar-navigation floating overflow-auto">
     <div class="pt-lg-2 mt-2 text-left sidebar-header">
     <div class="sidebar-title mb-0 py-0">
-      <a href="./">ENERGY!!!</a> 
+      <a href="./">Renewable Energy and Grid Reliability</a> 
         <div class="sidebar-tools-main">
     <a href="https://github.com/mollyverhaaren/energy.git" title="Source Code" class="quarto-navigation-tool px-1" aria-label="Source Code"><i class="bi bi-github"></i></a>
 </div>

diff --git a/docs/d3graph.html b/docs/d3graph.html
@@ -7,7 +7,7 @@
 <meta name="viewport" content="width=device-width, initial-scale=1.0, user-scalable=yes">
 
 
-<title>4&nbsp; Interactive graph – ENERGY!!!</title>
+<title>4&nbsp; Interactive graph – Renewable Energy and Grid Reliability</title>
 <style>
 code{white-space: pre-wrap;}
 span.smallcaps{font-variant: small-caps;}
@@ -96,7 +96,7 @@ ul.task-list li input[type="checkbox"] {
   <nav id="quarto-sidebar" class="sidebar collapse collapse-horizontal quarto-sidebar-collapse-item sidebar-navigation floating overflow-auto">
     <div class="pt-lg-2 mt-2 text-left sidebar-header">
     <div class="sidebar-title mb-0 py-0">
-      <a href="./">ENERGY!!!</a> 
+      <a href="./">Renewable Energy and Grid Reliability</a> 
         <div class="sidebar-tools-main">
     <a href="https://github.com/mollyverhaaren/energy.git" title="Source Code" class="quarto-navigation-tool px-1" aria-label="Source Code"><i class="bi bi-github"></i></a>
 </div>

diff --git a/docs/conclusion.html b/docs/conclusion.html
@@ -7,7 +7,7 @@
 <meta name="viewport" content="width=device-width, initial-scale=1.0, user-scalable=yes">
 
 
-<title>5&nbsp; Conclusion – ENERGY!!!</title>
+<title>5&nbsp; Conclusion – Renewable Energy and Grid Reliability</title>
 <style>
 code{white-space: pre-wrap;}
 span.smallcaps{font-variant: small-caps;}
@@ -95,7 +95,7 @@ ul.task-list li input[type="checkbox"] {
   <nav id="quarto-sidebar" class="sidebar collapse collapse-horizontal quarto-sidebar-collapse-item sidebar-navigation floating overflow-auto">
     <div class="pt-lg-2 mt-2 text-left sidebar-header">
     <div class="sidebar-title mb-0 py-0">
-      <a href="./">ENERGY!!!</a> 
+      <a href="./">Renewable Energy and Grid Reliability</a> 
         <div class="sidebar-tools-main">
     <a href="https://github.com/mollyverhaaren/energy.git" title="Source Code" class="quarto-navigation-tool px-1" aria-label="Source Code"><i class="bi bi-github"></i></a>
 </div>
